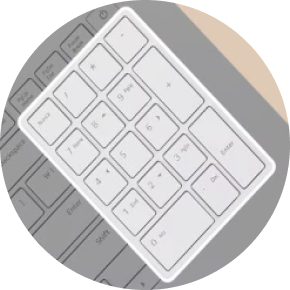
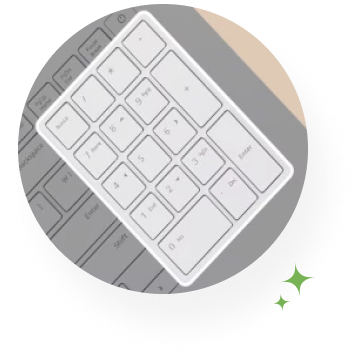
[ADD] story section08,09 코드 추가, 이미지 변경 및 추가

diff --git a/css/story.css b/css/story.css
@@ -14,6 +14,7 @@ nav{
 section{
   width: 100%;
   height: 100vh ;
+  font-family: "Gmarket Sans";
 }
 .story_section01 h2,.story_section02 h2,.story_section05 h2{
   display: none;
@@ -22,7 +23,6 @@ section{
   background-color: var(--black_00);
   color: var(--white_00);
   font-size: var(--tt_size_01);
-  font-family: "Gmarket Sans";
   font-weight: bold;
 }
 .story_section01 span, .story_section02 span, .story_section05 span{
@@ -33,21 +33,20 @@ section{
 }
 .story_section03 h2,.story_section04 h2,.story_section06_influencer h2, .story_section07_creator h2, .story_section08_student h2, .story_section09_office h2{
   font-size: var(--tt_size_01);
-  font-family: "Gmarket Sans";
   font-weight: bold;
   text-align: center;
 }
 .story_section06_influencer>p, .story_section07_creator>p, .story_section08_student>p, .story_section09_office >p{
   font-size: var(--bd_size_01);
-  font-family: "Gmarket Sans";
 }
 .story_section03 h2 span,.story_section04 h2 span{
   display: block;
   margin-top: var(--base_unit_d)*2/3;
 }
-.story_section06_influencer h2, .story_section07_creator h2,.story_section08_student h2, .story_section09_office h2 {
+.story_section06_influencer h2, .story_section07_creator h2 {
   padding-bottom:calc(var(--base_unit_d)*2);
 }
+.story_section07_creator div, .story_section08_student div, .story_section09_office>div{padding: var(--tt_size_01) 0;}
 /* story_section01 */
 .story_section01 div>*{
   margin-bottom: var(--base_unit_d);
@@ -163,7 +162,6 @@ padding: 0 var(--tt_size_01);
 .story_section07_creator div{
   display: flex;
   float: left;
-  padding: var(--tt_size_01) 0;
 }
 .story_section07_creator img{
   height:calc(var(--tt_size_01)*5);
@@ -174,23 +172,49 @@ padding: 0 var(--tt_size_01);
   justify-content: center;
   align-items: center;
   margin: 10px;
+  position: relative;
+  /* background-color: #2B673D; */
+}
+.story_section07_creator div>div:nth-child(2){
+  top:calc(var(--tt_size_01)*-1.5);
 }
 .story_section07_creator div>p{
   font-size: var(--body_text_unit);
+  position: absolute;
+  bottom:10px;
+}
+.story_section07_creator div>div:nth-child(2)>p{
+  bottom:40px;
+}
+.story_section07_creator div>div>p span{
+  display: block;text-align: center;
 }
 /* story_section08_student */
 .story_section08_student{
   background-color: var(--gray_00);
 }
 .story_section08_student h2{
-  background: linear-gradient(90deg, #FFAEE4 0%, #D7A3F6 50%, #B6DB87 100%);
+  background: linear-gradient(90deg, #FFAEE4 0%, #D7A3F6 50%, #9FCC56 100%);
   background-clip: text;
   -webkit-background-clip: text;
   -webkit-text-fill-color: transparent;
 }
-.story_section08_student img{
-  width: 10%;
+.story_section08_student>div>div>p:nth-child(2){
+  font-size: var(--bd_size_01);}
+.story_section08_student div div p{
+  font-size: var(--body_text_unit);}
+.story_section08_student span{display: block;}
+.story_section08_student>div>img{
+  height:calc(var(--tt_size_01)*10);
+  padding-left:var(--tt_size_01);
 }
+.story_section08_student>div>div>p:first-child{
+  padding-top: calc(var(--base_unit_d)*2)}
+.story_section08_student>div>div>div{
+  position: absolute;
+  bottom: calc(var(--base_unit_d)*2);}
+.story_section08_student>div>div>div>img:first-child{height:calc(var(--tt_size_01)*2);}
+
 /* story_section09_office */
 .story_section09_office h2{
   background: linear-gradient(90deg, #E3DE51 0%, #5FC95F 50%, #2B673D 100%);
@@ -198,20 +222,51 @@ padding: 0 var(--tt_size_01);
   -webkit-background-clip: text;
   -webkit-text-fill-color: transparent;
 }
-.story_section09_office{
-  background-color: var(--white_00);
+.story_section09_office{background-color: var(--white_00);}
+.story_section09_office span{display: block;}
+.story_section09_office div p{font-size: var(--body_text_unit);text-align: right;position: relative;width:200px;}
+.story_section09_office div p::before{
+  content: "";
+  position: absolute;
+  width: calc(var(--body_text_unit)*13);
+  height: calc(var(--body_text_unit)*1.5) ;
+  background-color: #5bbb2830;
+  top: 80%;right: 0;bottom:0;left:0;
+  border-radius: var(--border_md);
 }
-.story_section09_office img{
-  width: 10%;
-}
+.story_section09_office>div>img{height:calc(var(--tt_size_01)*10);}
+.story_section09_office>div>div{position: relative;width: calc(var(--tt_size_01)*5);left: calc(var(--tt_size_01)*-1);}
+.story_section09_office>div>div>p{position: absolute;bottom: 0; right: 0;}
+.story_section09_office>div>div>div{position: absolute;bottom:var(--tt_size_01);}
+.story_section09_office>div>div>div>img:nth-child(2){height:calc(var(--tt_size_01)*3.5);}
+
+
 @media (max-width: 768px) {
-  .story_section06_influencer .influencer_container img:first-child, .story_section06_influencer .influencer_container img:nth-child(3){
-  display: none;
-  }
+  .story_section06_influencer .influencer_container img:first-child, 
+  .story_section06_influencer .influencer_container img:nth-child(3),  
+  .story_section08_student>div>div>p,  
+  .story_section08_student div>div>img:last-child,
+  .story_section09_office>div>div>div>img{
+  display: none;}
   .story_section06_influencer .influencer_container img:nth-child(2){
     height:calc(var(--tt_size_01)*12);
-    padding-bottom: calc(var(--tt_size_01)*2);
-    }
+    padding-bottom: calc(var(--tt_size_01)*2);}
+  .story_section07_creator div>p{
+    top:80%;}
+  .story_section07_creator div>div:nth-child(2){
+    top:calc(var(--tt_size_01)*-1.5);
+  }
+  .story_section08_student div, 
+  .story_section09_office div{
+    padding: calc(var(--base_unit_d)*2) 0;
+  }
+  .story_section08_student div div{
+    font-size: var(--body_text_unit);padding-top: calc(var(--base_unit_d)*19); padding-bottom:0;right: 0;text-align: right;}
+  .story_section09_office>div>div{padding-top: calc(var(--base_unit_d)*13);width:0;left:0}
+  .story_section09_office>div>img{height:calc(var(--tt_size_01)*8);}
+  .story_section09_office>div>div>p{position: absolute;bottom: 0; right: 0;}
+  .story_section09_office>div>div>div{position: absolute;bottom:var(--tt_size_01);}
+
 }
 
 @media (max-width: 480px) {
@@ -226,5 +281,10 @@ padding: 0 var(--tt_size_01);
   .story_section07_creator{
     padding:calc(var(--base_unit_d)*5) 0;
   }
-  
+  .story_section07_creator div>div:nth-child(2){
+    top:0
+  }
+  .story_section07_creator h2{
+    padding-bottom: 0;
+  }
 }

diff --git a/story.html b/story.html
@@ -81,32 +81,39 @@
     <section class="story_section07_creator d-flex flex-column justify-content-center align-items-center">
       <h2 data-aos="fade-in">최단기간 백만 구독자를 향해</h2>
       <div data-aos="fade-in">
-        <div><img src="./imgs/story/section07_creator01.png" alt=""><p>무거운 작업도 가볍고 빠르게!</p></div>
+        <div><img src="./imgs/story/section07_creator01.png" alt=""><p>무거운 작업도 <span>가볍고 빠르게!</span></p></div>
         <div><img src="./imgs/story/section07_creator02.png" alt=""><p>16:10 화면비</p></div>
-        <div><img src="./imgs/story/section07_creator03.png" alt=""><p>두 배 더 선명하고 생생한 해상도</p></div>
+        <div><img src="./imgs/story/section07_creator03.png" alt=""><p>두 배 더 선명하고 <span>생생한 해상도</span></p></div>
       </div>
       <p data-aos="fade-in">	&#35;크리에이터	&#35;브이로거	&#35;영상편집 &#35;CG</p>
     </section>
     <section class="story_section08_student d-flex flex-column justify-content-center align-items-center">
       <h2 data-aos="fade-in">24시간이 모자란 열정 콜렉터</h2>
-      <div data-aos="fade-in">
+      <div class="d-flex" data-aos="fade-in">
+        <div>
+          <p>필기는 내게 맡겨</p> 
+          <p>손 글씨가 예쁜 친구의 <span>단짝 노트북은</span> 그램360</p>
+          <div class="d-flex">
+            <img src="./imgs/story/section08_student_pen.png" alt="">
+            <p>섬세한 4,096필압 <span>내 글씨체 그대로</span> 와콤 스타일러스 펜!</p>
+            <img src="./imgs/story/section08_student_wave.svg" alt="">
+          </div>
+        </div>
         <img src="./imgs/story/section08_student.png" alt="">
-        <p>필기는 내게 맡겨 <br>손 글씨가 예쁜 친구의 단짝 노트북은 그램360</p>
-        <img src="./imgs/story/section08_student_star.svg" alt="">
-        <img src="./imgs/story/section08_student_wave.svg" alt="">
-        <p>섬세한 4,096필압 내 글씨체 그대로 와콤 스타일러스 펜!</p>
-        <img src="./imgs/story/section08_student_pen.png" alt="">
       </div>
       <p data-aos="fade-in">&#35;24시간이모자란 &#35;열공모드 &#35;열정콜렉터 &#35;대학생</p>
     </section>
     <section class="story_section09_office d-flex flex-column justify-content-center align-items-center">
       <h2 data-aos="fade-in">언제나 명확한 정팀장님의 선택</h2>
-      <div data-aos="fade-in">
+      <div class="d-flex justify-content-center" data-aos="fade-in">
         <img src="./imgs/story/section09_office.png" alt="">
-        <img src="./imgs/story/section09_office_line.svg" alt="">
-        <img src="./imgs/story/section09_office_star.svg" alt="">
-        <p>텐 키가 있는 일잘러를 위한 노트북 그램</p>
-        <img src="./imgs/story/section09_office_key.png" alt="">
+        <div>
+          <div class="d-flex">
+            <img src="./imgs/story/section09_office_wave.svg" alt="">
+            <img src="./imgs/story/section09_office_key.png" alt="">
+          </div>
+          <p>텐 키가 있는 <span>일잘러를 위한 노트북 그램</span></p>
+        </div>
       </div>
       <p data-aos="fade-in">&#35;N잡러 &#35;워라벨 &#35;갓생살기 &#35;회사원 </p>
     </section>
